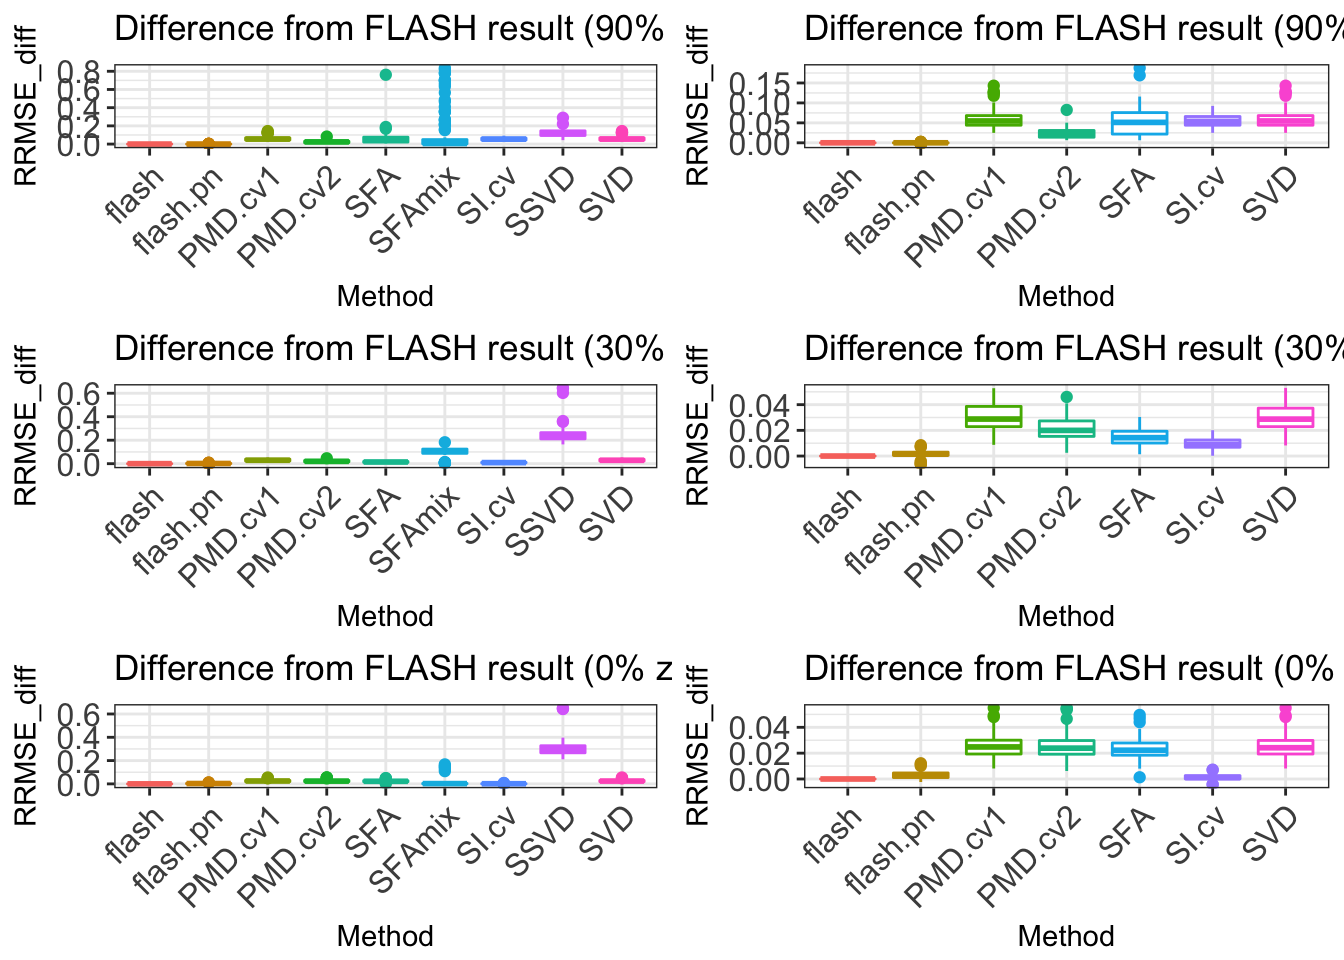
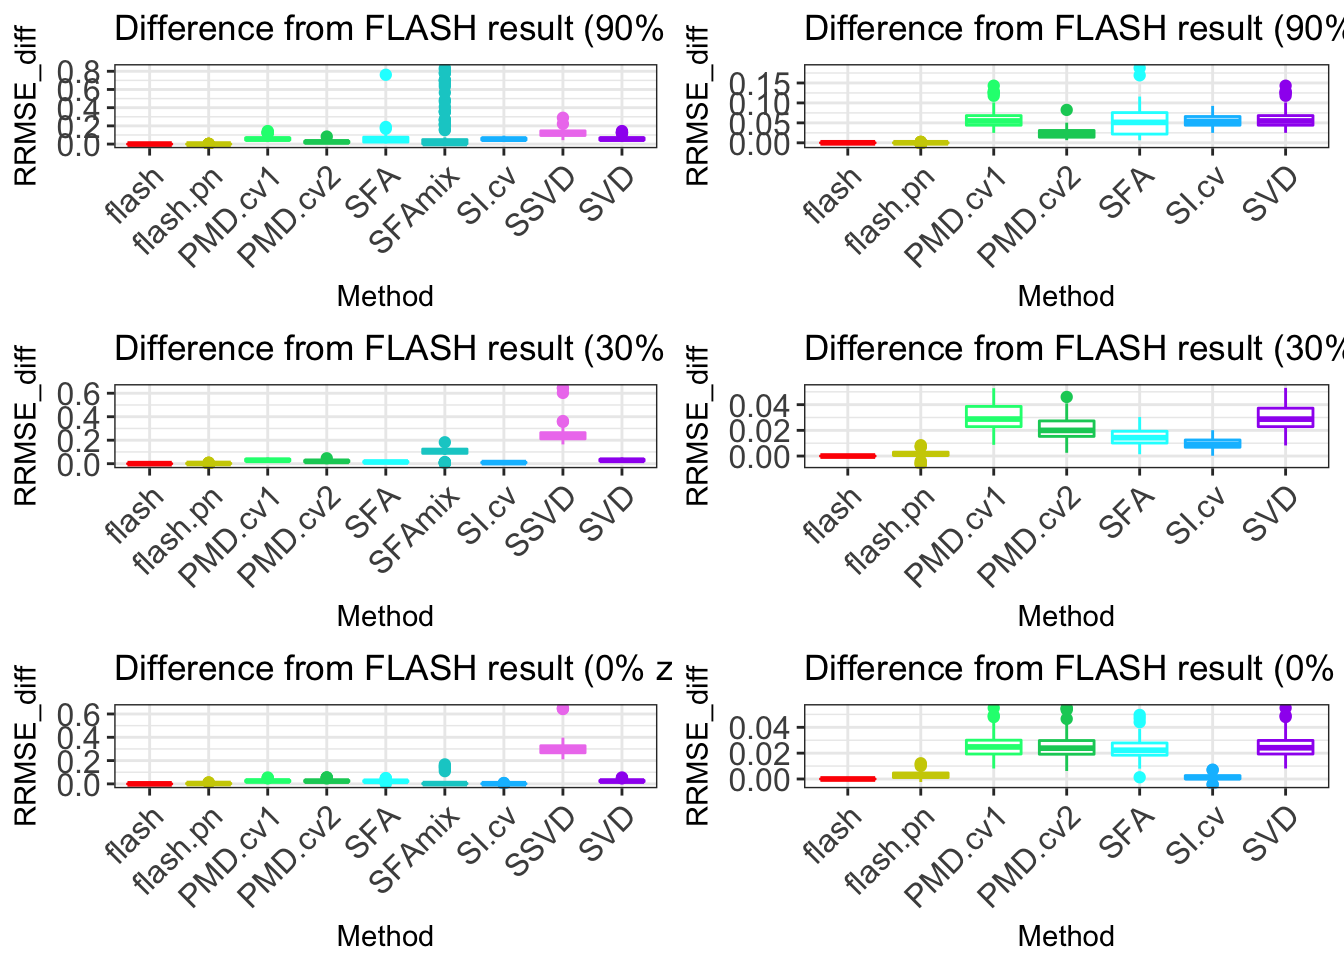
Build site.

diff --git a/docs/MSErank1sim.html b/docs/MSErank1sim.html
@@ -329,10 +329,10 @@ div.tocify {
 shared across the workflowr files. -->
 <!-- Update knitr chunk options -->
 <!-- Insert the date the file was last updated -->
-<p><strong>Last updated:</strong> 2018-01-25</p>
+<p><strong>Last updated:</strong> 2018-01-27</p>
 <!-- Insert the code version (Git commit SHA1) if Git repository exists and R
  package git2r is installed -->
-<p><strong>Code version:</strong> 5eb79ac</p>
+<p><strong>Code version:</strong> d7edc50</p>
 <!-- Add your analysis here -->
 <div id="run-the-methods" class="section level2">
 <h2>run the methods</h2>
@@ -343,8 +343,9 @@ shared across the workflowr files. -->
 <div id="creat-.r-file" class="section level3">
 <h3>2. creat .R file</h3>
 <pre class="r"><code># this file is for all the R function we need here for sparse factor model
-library(&quot;MASS&quot;)
-betaO=function(P,betapi,betasigma,propt){
+library(&quot;MASS&quot;)</code></pre>
+<pre><code>Warning: package &#39;MASS&#39; was built under R version 3.3.2</code></pre>
+<pre class="r"><code>betaO=function(P,betapi,betasigma,propt){
   idx=rmultinom(P,size=1,prob=betapi)
   K=length(betapi)
   s=array(0,dim=c(K,K))
@@ -693,7 +694,7 @@ N = 200
 P = 300
 Data = datamaker(N,P,L_pi,L_se,0.7,c(1),c(1),1,sqrt(16))
 # Data = datamaker(N,P,L_pi,L_se,0.1,c(1),c(1),1,sqrt(1))  sparse case
-# Data = datamaker(N,P,L_pi,L_se,1.0,c(1),c(1),1,sqrt(1))  dense case
+# Data = datamaker(N,P,L_pi,L_se,1.0,c(1),c(1),1,sqrt(25))  dense case
 RMSE = rep(NA,6)
 RMSE[1] = PMA.wrapper(Y_data)
 RMSE[2] = flash.wrapper(Y_data)
@@ -749,7 +750,7 @@ saveRDS(results,&quot;./RES_rrmse.rds&quot;)</code></pre>
 </div>
 <div id="rmse-sparse-case-100-simulations" class="section level2">
 <h2>RMSE sparse case 100 simulations</h2>
-<pre class="r"><code>plot_res = function(output,title = &quot;data&quot;,legend_position = &quot;none&quot;, methods_name){
+<pre class="r"><code>plot_res = function(output,title = &quot;data&quot;,legend_position = &quot;none&quot;, methods_name,myColors){
   rmse = as.vector(output)
   N = dim(output)[1]
   methods = rep(methods_name, each = N)
@@ -757,7 +758,7 @@ saveRDS(results,&quot;./RES_rrmse.rds&quot;)</code></pre>
   p&lt;-ggplot(df, aes(x=Method, y=RRMSE_diff, color=Method)) +
   geom_boxplot()+
   # geom_violin()+
-  ggtitle(title) +  theme_bw()+
+  ggtitle(title) +  theme_bw()+ scale_color_manual(values=myColors)+
     theme(legend.position= legend_position, legend.text=element_text(size=10),
           axis.text.y = element_text(size =12),
           axis.text.x = element_text(size =12,angle = 45, hjust = 1))
@@ -768,9 +769,11 @@ library(ggplot2)</code></pre>
 colnames(sparse_res) = c(&quot;PMD.cv2&quot;,&quot;flash&quot;,&quot;SFA&quot;,&quot;flash.pn&quot;,&quot;SVD&quot;,&quot;SSVD&quot;,&quot;PMD.cv1&quot;,&quot;SFAmix&quot;,&quot;SI.cv&quot;)
 sparse_diff = sparse_res - sparse_res[,2]
 methods_name = colnames(sparse_diff)
-p1 = plot_res(sparse_diff,title = &quot;Difference from FLASH result (90% zeros)&quot;,methods_name = methods_name)
+fill_color = c(&quot;red&quot;,&quot;yellow3&quot;, &quot;springgreen&quot;, &quot;springgreen3&quot;, &quot;cyan&quot;,&quot;cyan3&quot;, &quot;deepskyblue&quot;,&quot;violet&quot;,&quot;purple&quot;)
+p1 = plot_res(sparse_diff,title = &quot;Difference from FLASH result (90% zeros)&quot;,
+              methods_name = methods_name, myColors = fill_color)
 methods_name = colnames(sparse_diff)[c(1,2,3,4,5,7,9)]
-p1_cut = plot_res(sparse_diff[-22,c(1,2,3,4,5,7,9)],title = &quot;Difference from FLASH result (90% zeros)&quot;,methods_name = methods_name)</code></pre>
+p1_cut = plot_res(sparse_diff[-22,c(1,2,3,4,5,7,9)],title = &quot;Difference from FLASH result (90% zeros)&quot;,methods_name = methods_name,myColors = fill_color[c(1,2,3,4,5,7,9)])</code></pre>
 </div>
 <div id="rmse-intermediate-sparse-case-100-simulations" class="section level2">
 <h2>RMSE intermediate sparse case 100 simulations</h2>
@@ -780,9 +783,9 @@ sparse_diff = sparse_res - sparse_res[,2]
 # p2 = plot_res(sparse_diff,&quot;Difference from FLASH result (30% zeros)&quot;)
 
 methods_name = colnames(sparse_diff)
-p2 = plot_res(sparse_diff,title = &quot;Difference from FLASH result (30% zeros)&quot;,methods_name = methods_name)
+p2 = plot_res(sparse_diff,title = &quot;Difference from FLASH result (30% zeros)&quot;,methods_name = methods_name,myColors = fill_color)
 methods_name = colnames(sparse_diff)[c(1,2,3,4,5,7,9)]
-p2_cut = plot_res(sparse_diff[,c(1,2,3,4,5,7,9)],title = &quot;Difference from FLASH result (30% zeros)&quot;,methods_name = methods_name)</code></pre>
+p2_cut = plot_res(sparse_diff[,c(1,2,3,4,5,7,9)],title = &quot;Difference from FLASH result (30% zeros)&quot;,methods_name = methods_name,myColors = fill_color[c(1,2,3,4,5,7,9)])</code></pre>
 </div>
 <div id="rmse-dense-case-100-simulations" class="section level2">
 <h2>RMSE dense case 100 simulations</h2>
@@ -791,9 +794,9 @@ colnames(sparse_res) = c(&quot;PMD.cv2&quot;,&quot;flash&quot;,&quot;SFA&quot;,&
 sparse_diff = sparse_res - sparse_res[,2]
 # p3 = plot_res(sparse_diff,&quot;Difference from FLASH result (0% zeros)&quot;)
 methods_name = colnames(sparse_diff)
-p3 = plot_res(sparse_diff,title = &quot;Difference from FLASH result (0% zeros)&quot;,methods_name = methods_name)
+p3 = plot_res(sparse_diff,title = &quot;Difference from FLASH result (0% zeros)&quot;,methods_name = methods_name,myColors = fill_color )
 methods_name = colnames(sparse_diff)[c(1,2,3,4,5,7,9)]
-p3_cut = plot_res(sparse_diff[,c(1,2,3,4,5,7,9)],title = &quot;Difference from FLASH result (0% zeros)&quot;,methods_name = methods_name)</code></pre>
+p3_cut = plot_res(sparse_diff[,c(1,2,3,4,5,7,9)],title = &quot;Difference from FLASH result (0% zeros)&quot;,methods_name = methods_name,myColors = fill_color[c(1,2,3,4,5,7,9)])</code></pre>
 <pre class="r"><code># gridExtra::grid.arrange(p1,p2,p3,p1_cut,p2_cut,p3_cut,ncol = 3)
 gridExtra::grid.arrange(p1,p1_cut,p2,p2_cut,p3,p3_cut,ncol = 2)</code></pre>
 <p><img src="figure/MSErank1sim.Rmd/unnamed-chunk-6-1.png" width="672" style="display: block; margin: auto;" /></p>
@@ -813,25 +816,16 @@ attached base packages:
 [1] stats     graphics  grDevices utils     datasets  methods   base     
 
 other attached packages:
- [1] MASS_7.3-47     workflowr_0.4.0 rmarkdown_1.6   reshape2_1.4.3 
- [5] ebnm_0.1-7      softImpute_1.4  Matrix_1.2-11   ssvd_1.0       
- [9] flashr2_0.4-0   PMA_1.0.9       impute_1.48.0   plyr_1.8.4     
-[13] ggplot2_2.2.1  
+[1] MASS_7.3-47     workflowr_0.4.0 rmarkdown_1.6   ggplot2_2.2.1  
 
 loaded via a namespace (and not attached):
- [1] Rcpp_0.12.14      git2r_0.19.0      iterators_1.0.9  
- [4] tools_3.3.0       digest_0.6.13     evaluate_0.10.1  
- [7] tibble_1.3.4      gtable_0.2.0      lattice_0.20-35  
-[10] rlang_0.1.6       foreach_1.4.4     rstudioapi_0.6   
-[13] yaml_2.1.16       parallel_3.3.0    gridExtra_2.3    
-[16] stringr_1.2.0     knitr_1.18        REBayes_0.85     
-[19] rprojroot_1.2     grid_3.3.0        flashr_0.1.1     
-[22] ashr_2.2-3        magrittr_1.5      backports_1.1.2  
-[25] scales_0.4.1      codetools_0.2-15  htmltools_0.3.6  
-[28] assertthat_0.2.0  colorspace_1.3-2  labeling_0.3     
-[31] stringi_1.1.6     Rmosek_7.1.2      lazyeval_0.2.0   
-[34] pscl_1.5.2        doParallel_1.0.11 munsell_0.4.3    
-[37] truncnorm_1.0-7   SQUAREM_2017.10-1</code></pre>
+ [1] Rcpp_0.12.14     rstudioapi_0.6   knitr_1.18       magrittr_1.5    
+ [5] munsell_0.4.3    colorspace_1.3-2 rlang_0.1.6      stringr_1.2.0   
+ [9] plyr_1.8.4       tools_3.3.0      grid_3.3.0       gtable_0.2.0    
+[13] git2r_0.19.0     htmltools_0.3.6  yaml_2.1.16      lazyeval_0.2.0  
+[17] digest_0.6.13    rprojroot_1.2    tibble_1.3.4     gridExtra_2.3   
+[21] ssvd_1.0         evaluate_0.10.1  labeling_0.3     stringi_1.1.6   
+[25] scales_0.4.1     backports_1.1.2 </code></pre>
 </div>
 
 <hr>
